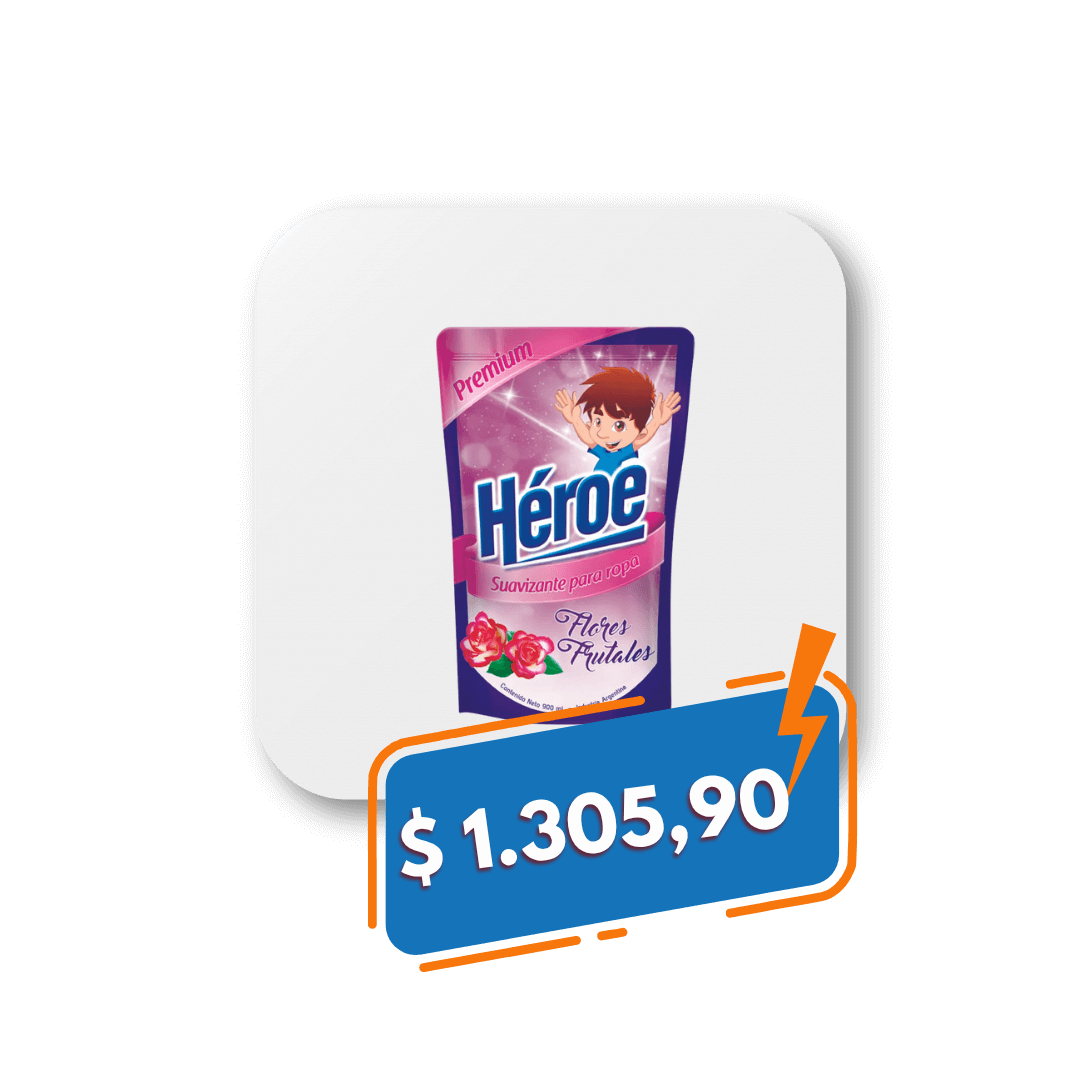
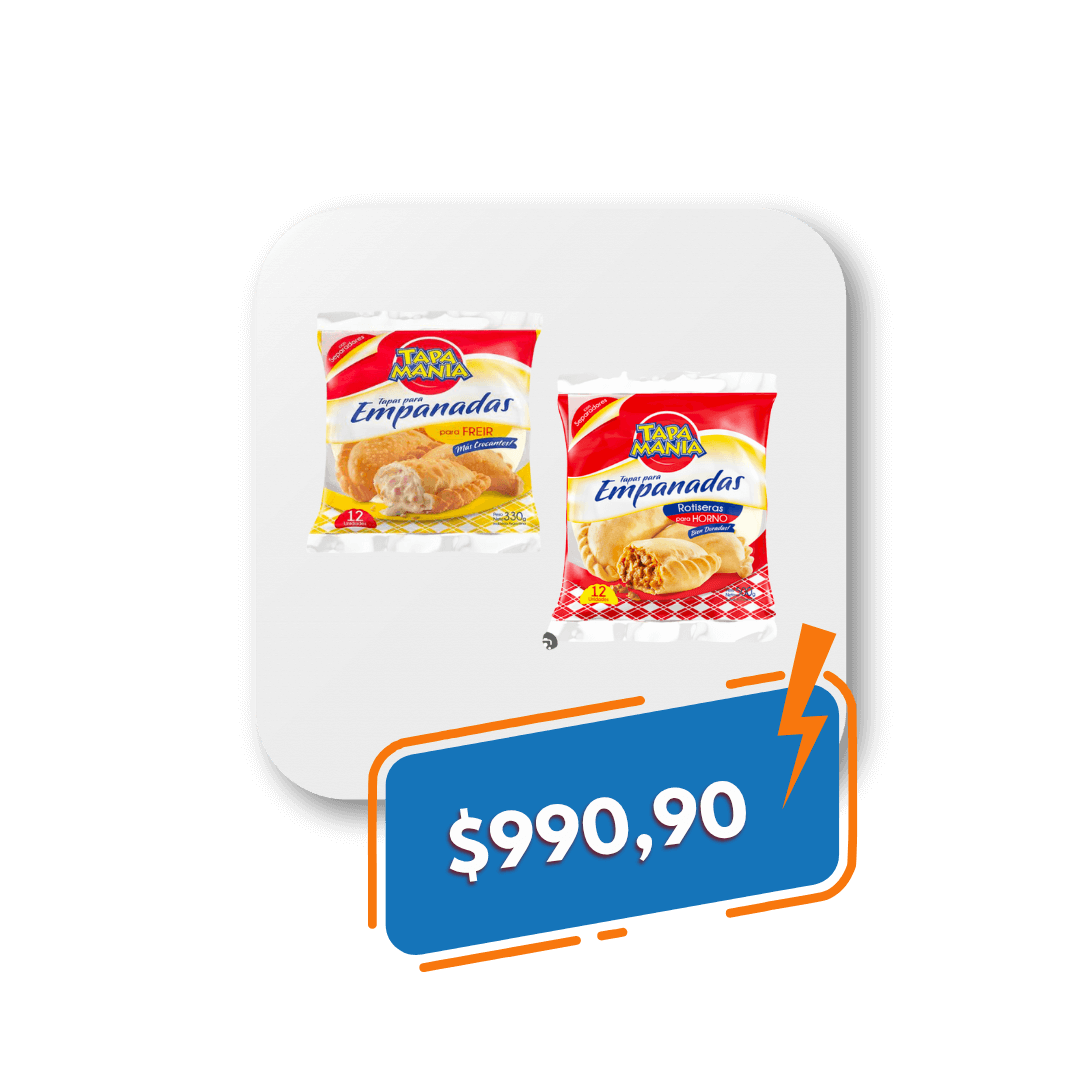
actualizando ofertas

Changed region(s): [[0.275, 0.275, 0.7333, 0.6722], [0.3667, 0.7028, 0.7333, 0.825]]

diff --git a/src/components/atoms/carousel/Carousel.jsx b/src/components/atoms/carousel/Carousel.jsx
@@ -18,51 +18,29 @@ export const Carousel = () => {
     navigation: isDesktop? {nextEl: '.swiper-button-next', prevEl: '.swiper-button-prev'} : false,
     
   };
+
+  const ofertas = [
+    { path: '/assets/ofertas/1.png', title: 'TAPAS DE EMPANADAS TAPA MANIA'},
+    { path: '/assets/ofertas/2.png', title: 'LAVANDINA HEROE x1 Lt'},
+    { path: '/assets/ofertas/3.png', title: 'PURE DE TOMATES DOÑA PEPA'},
+    { path: '/assets/ofertas/4.png', title: 'FIDEOS CELENTANO MAROLIO'},
+    { path: '/assets/ofertas/5.png', title: 'TALLARINES MAROLIO'},
+    { path: '/assets/ofertas/6.png', title: 'BONDIOLA DON ALEJANDRO x Kg'},
+    { path: '/assets/ofertas/8.png', title: 'MORTADELA PALADINI x Kg'},
+    { path: '/assets/ofertas/9.png', title: 'SALCHICHAS FELA x 6u'},
+    { path: '/assets/ofertas/7.webp', title: 'AZÚCAR LEDESMA 1Kg'},
+  ];
   
   return (
     <Swiper {...config} className={style.swiper}>
-      <SwiperSlide className={style.swiperSlide}>
+      {ofertas.map((oferta, index) => (
+      <SwiperSlide key={index} className={style.swiperSlide}>
         <div className={style.title}>
-          <p>SUAVIZANTE HEROE 900ml</p>
+          <p>{oferta.title}</p>
         </div>
-        <img src="/assets/ofertas/1.png" alt="oferta1" />
+        <img src={oferta.path} alt={`oferta${index + 1}`} />
       </SwiperSlide>
-      <SwiperSlide className={style.swiperSlide}>
-        <div className={style.title}>
-          <p>YOGURT BEBIBLE MILKAUT</p>
-        </div>
-        <img src="/assets/ofertas/2.png" alt="oferta2" />
-      </SwiperSlide>
-      <SwiperSlide className={style.swiperSlide}>
-        <div className={style.title}>
-          <p>MAYONESA HELLMANN'S x500gr</p>
-        </div>
-        <img src="/assets/ofertas/3.png" alt="oferta3" />
-      </SwiperSlide>
-      <SwiperSlide className={style.swiperSlide}>
-        <div className={style.title}>
-          <p>MORTADELA PALADINI x Kg</p>
-        </div>
-        <img src="/assets/ofertas/4.png" alt="oferta4" />
-      </SwiperSlide>
-      <SwiperSlide className={style.swiperSlide}>
-        <div className={style.title}>
-          <p>TAPAS DE EMPANADAS TAPA MANIA</p>
-        </div>
-        <img src="/assets/ofertas/5.png" alt="oferta5" />
-      </SwiperSlide>
-      <SwiperSlide className={style.swiperSlide}>
-        <div className={style.title}>
-          <p>VINO VIÑAS DE BALBO</p>
-        </div>
-        <img src="/assets/ofertas/6.png" alt="oferta5" />
-      </SwiperSlide>
-      <SwiperSlide className={style.swiperSlide}>
-        <div className={style.title}>
-          <p>AZÚCAR LEDESMA 1Kg</p>
-        </div>
-        <img src="/assets/ofertas/7.webp" alt="oferta7" />
-      </SwiperSlide>
+      ))};
       {isDesktop && (
         <>
           <div className="swiper-button-prev"></div>

diff --git a/src/components/atoms/carousel/Carousel.module.css b/src/components/atoms/carousel/Carousel.module.css
@@ -17,8 +17,8 @@
   }
 
   .swiperSlide img {
-    width: 350px;
-    height: 350px;
+    width: 400px;
+    height: 400px;
     object-fit: cover;
   }
 
